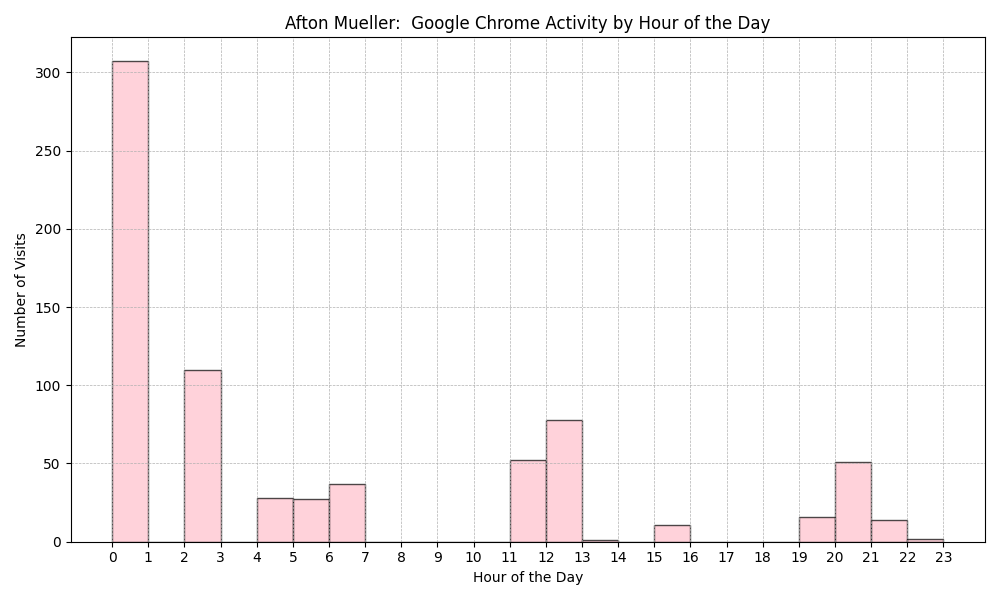
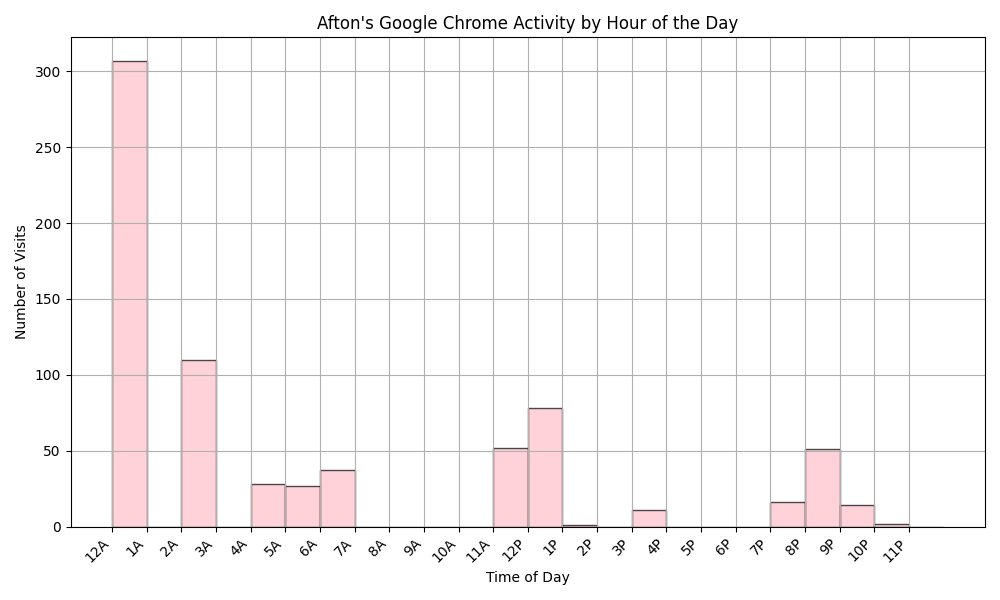
Afton's Graphs

diff --git a/Amueller_Code/Afton_SleepTimes.py b/Amueller_Code/Afton_SleepTimes.py
@@ -6,8 +6,8 @@ import matplotlib.pyplot as plt
 from datetime import datetime
 
 # File paths
-html_file_path = "/Users/kearapolovick/Desktop/Takeout/YouTube and YouTube Music/history/watch-history.html"
-json_file_path = "/Users/kearapolovick/Desktop/Takeout/Chrome/History.json"
+html_file_path = r"C:\Users\equus\CS4501\search-history.html"
+json_file_path = r'C:\Users\equus\CS4501\History.json'
 
 # Function to extract timestamps from YouTube HTML file
 def extract_html_datetimes(file_path):
@@ -74,23 +74,24 @@ def plot_sleep_patterns(sleep_data):
 
     plt.figure(figsize=(12, 5))
 
+    # Define custom hour labels
+    hour_labels = ["12A"] + [f"{h}A" for h in range(1, 12)] + ["12P"] + [f"{h}P" for h in range(1, 12)]
+
     # Sleep Start Histogram
     plt.subplot(1, 2, 1)
-    plt.hist(sleep_starts, bins=range(25), color='skyblue', edgecolor='black', alpha=0.7, density=True)
-    plt.xlabel("Hour of day (sleep start)")
-    plt.ylabel("Frequency (normalized)")
-    plt.title("Inferred Sleep Start Times (8 PM - 5 AM)")
-    
+    plt.hist(sleep_starts, bins=range(25), color='lightskyblue', edgecolor='royalblue', alpha=0.7, density=True)
+    plt.xlabel("Hour of Day (Sleep Start)", fontsize=10)
+    plt.ylabel("Frequency (Normalized)", fontsize=10)
+    plt.title("Afton's Inferred Sleep Start Times (8P - 5A)", fontsize=12)
+    plt.xticks(range(24), hour_labels, rotation=45, fontsize=8, ha='right')
+
     # Wake-up Time Histogram
     plt.subplot(1, 2, 2)
-    plt.hist(wake_times, bins=range(25), color='lightcoral', edgecolor='black', alpha=0.7, density=True)
-    plt.xlabel("Hour of day (wake-up time)")
-    plt.ylabel("Frequency (normalized)")
-    plt.title("Inferred Wake-up Times (5 AM - 2 PM)")
-
-    # Format x-axis
-    hour_labels = ["12A"] + [f"{h}A" for h in range(1, 12)] + ["12P"] + [f"{h}P" for h in range(1, 12)]
-    plt.xticks(range(24), hour_labels)
+    plt.hist(wake_times, bins=range(25), color='lightpink', edgecolor='deeppink', alpha=0.7, density=True)
+    plt.xlabel("Hour of Day (Wake-up Time)", fontsize=10)
+    plt.ylabel("Frequency (Normalized)", fontsize=10)
+    plt.title("Afton's Inferred Wake-up Times (5A - 2P)", fontsize=12)
+    plt.xticks(range(24), hour_labels, rotation=45, fontsize=8, ha='right')
 
     plt.tight_layout()
     plt.show()

diff --git a/Amueller_Code/Afton_HTML_inactivity.py b/Amueller_Code/Afton_HTML_inactivity.py
@@ -23,29 +23,36 @@ def extract_datetimes(file_path):
 
 def plot_inactivity_periods(datetimes):
     inactivity_start_hours = []
+    inactivity_end_hours = []
     inactivity_lengths = []
     
     for i in range(1, len(datetimes)):
         gap = (datetimes[i] - datetimes[i-1]).total_seconds() / 3600  # Convert gap to hours
         if 5 <= gap <= 12:  # Consider inactivity only if the gap is between 5 and 12 hours
-            inactivity_start_hours.append(datetimes[i-1].hour)
+            inactivity_start_hours.append(datetimes[i-1].hour)  # Start of inactivity
+            inactivity_end_hours.append(datetimes[i].hour)  # End of inactivity
             inactivity_lengths.append(gap)
     
     plt.figure(figsize=(10, 5))
-    plt.scatter(inactivity_start_hours, inactivity_lengths, color='pink', alpha=0.7)
-    plt.xlabel("Hour of day (start of inactivity)")
-    plt.ylabel("Length of inactivity (hours)")
-    plt.title("Periods of Inactivity in YouTube Watch History (5-12 hours)")
+    
+    # Scatter plot: blue for start, pink for end
+    plt.scatter(inactivity_start_hours, inactivity_lengths, color='royalblue', alpha=0.7, label="Start of Inactivity")
+    plt.scatter(inactivity_end_hours, inactivity_lengths, color='deeppink', alpha=0.7, label="End of Inactivity")
+
+    plt.xlabel("Hour of Day")
+    plt.ylabel("Length of Inactivity (hours)")
+    plt.title("Periods of Inactivity in YouTube History (5-12 hours)")
     
     # Format x-axis labels as 12A, 1A, ..., 12P, 1P, ..., 11P
     hour_labels = ["12A"] + [f"{h}A" for h in range(1, 12)] + ["12P"] + [f"{h}P" for h in range(1, 12)]
-    plt.xticks(range(24), hour_labels)
+    plt.xticks(range(24), hour_labels, rotation=45, fontsize=8, ha='right')
     
     plt.grid(axis='y', linestyle='--', alpha=0.7)
+    plt.legend()
     plt.show()
 
 # Specify the path to your file
-file_path = r"C:\Users\equus\CS4501\watch-history.html"
+file_path = r"C:\Users\equus\CS4501\search-history.html"
 
 datetimes = extract_datetimes(file_path)
 plot_inactivity_periods(datetimes)

diff --git a/Amueller_Code/Afton_JSON_parse.py b/Amueller_Code/Afton_JSON_parse.py
@@ -4,7 +4,6 @@ import matplotlib.pyplot as plt
 from datetime import datetime
 
 # Path to your JSON file
-# This is the path for Afton's chrome json data
 file_path = r'C:\Users\equus\CS4501\History.json'
 
 # Function to convert microsecond timestamp to human-readable format
@@ -52,15 +51,21 @@ df['hour_of_day'] = df['timestamp'].dt.hour
 
 # Create a histogram of browsing activity based on the hour of the day
 plt.figure(figsize=(10, 6))
-plt.hist(df['hour_of_day'], bins=range(24), edgecolor='black', color='pink', alpha=0.7)
+plt.hist(df['hour_of_day'], bins=range(25), edgecolor='black', color='pink', alpha=0.7)
+
+# Convert hours to 12-hour format with AM/PM
+labels = [f"{(h-1)%12+1}{'A' if h < 12 else 'P'}" for h in range(24)]
 
 # Customize the plot
-plt.title('Afton Mueller:  Google Chrome Activity by Hour of the Day')
-plt.xlabel('Hour of the Day')
+plt.title("Afton's Google Chrome Activity by Hour of the Day")
+plt.xlabel('Time of Day')
 plt.ylabel('Number of Visits')
-plt.xticks(range(24))  # Show all hours from 0 to 23
-plt.grid(True, which='both', linestyle='--', linewidth=0.5)
-plt.tight_layout()
+
+# Update x-axis labels with 12-hour format and slant them
+plt.xticks(range(24), labels, rotation=45, ha='right')
+
+plt.grid(True)
+plt.tight_layout()  # Ensures labels don't get cut off
 
 # Show the plot
 plt.show()

diff --git a/Amueller_Code/Afton_HTML_parse.py b/Amueller_Code/Afton_HTML_parse.py
@@ -5,7 +5,6 @@ import matplotlib.pyplot as plt
 from collections import Counter
 
 # Path to the HTML file
-# This is the path for my (Afton's) search-history.html
 file_path = r"C:\Users\equus\CS4501\search-history.html"
 
 # Step 1: Read the content of the HTML file
@@ -53,13 +52,19 @@ if hours:
     x = list(range(24))  # All 24 hours of the day
     y = [hour_counts.get(i, 0) for i in x]  # Get count for each hour (default 0 if no activity)
 
+    # Convert hours to 12-hour format with AM/PM
+    labels = [f"{(h-1)%12+1}{'A' if h < 12 else 'P'}" for h in x]
+
     # Plotting the data
     plt.figure(figsize=(10, 6))
     plt.bar(x, y, color='pink')
-    plt.xlabel('Hour of the Day')
+    plt.xlabel('Time of Day')
     plt.ylabel('Number of Activities')
-    plt.title('Afton Mueller:  YouTube Activity by Hour of the Day')
-    plt.xticks(x)  # Show all 24 hours
+    plt.title("Afton's YouTube Activity by Hour of the Day")
+
+    # Update x-axis labels with 12-hour format and slant them
+    plt.xticks(x, labels, rotation=45, ha='right')
+
     plt.grid(True)
     plt.tight_layout()  # Ensures labels don't get cut off
     plt.show()
